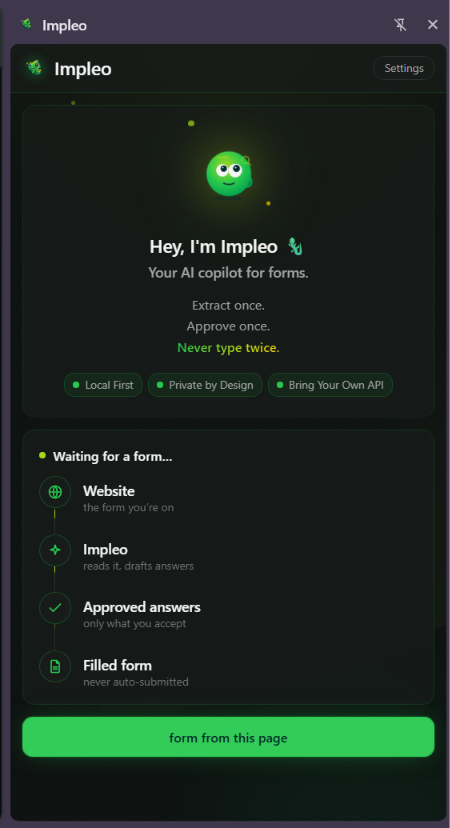
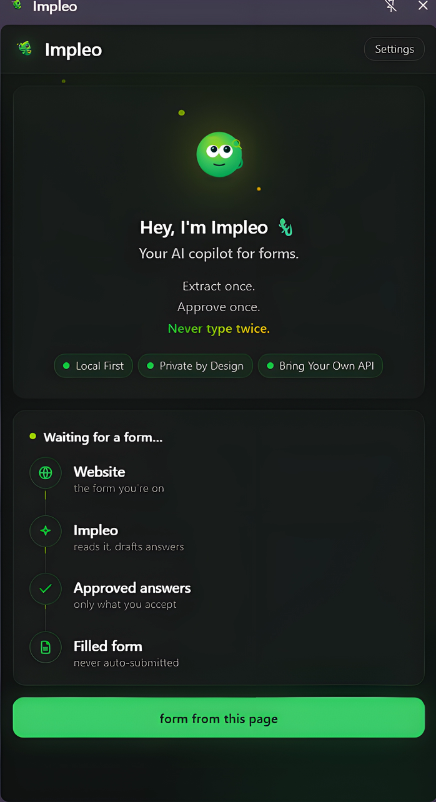
ServerLess

diff --git a/extension/src/sidepanel/components/LearnedAnswersManager.jsx b/extension/src/sidepanel/components/LearnedAnswersManager.jsx
@@ -1,5 +1,6 @@
 import { useEffect, useState } from 'react';
 import { getLearnedAnswers, deleteLearnedAnswer } from '../lib/learnedAnswers.js';
+import Collapsible from './extension-ui/Collapsible/Collapsible.jsx';
 
 // View / delete the answers Impleo has learned from confirmed reviews — the
 // questions that have no canonical identity key ("How many hackathons have you
@@ -46,61 +47,65 @@ export default function LearnedAnswersManager() {
 
   return (
     <div className="min-w-0 space-y-2">
-      <p className="text-caption text-ink-muted">
-        Learned answers — questions Impleo now answers from memory instead of asking the AI.
-      </p>
+      <Collapsible storageKey="impleo.ui.learnedAnswersOpen" title="Learned answers" count={items.length} defaultOpen={items.length <= 10}>
+        <div className="min-w-0 space-y-2">
+          <p className="text-caption text-ink-muted">
+            Questions Impleo now answers from memory instead of asking the AI.
+          </p>
 
-      {error && (
-        <div className="min-w-0 break-words rounded-card border border-red-900/50 bg-red-950/30 p-2 text-caption text-red-300">
-          {error}
+          {error && (
+            <div className="min-w-0 break-words rounded-card border border-red-900/50 bg-red-950/30 p-2 text-caption text-red-300">
+              {error}
+            </div>
+          )}
+
+          {items.length === 0 ? (
+            <p className="text-caption text-ink-muted">
+              Nothing learned yet. Accept or edit a short answer during a review and it shows up here.
+            </p>
+          ) : (
+            <ul className="min-w-0 max-h-80 space-y-1.5 overflow-y-auto pr-0.5">
+              {items.map((item) => (
+                <li
+                  key={item.questionNorm}
+                  className="min-w-0 rounded-input border border-surface-border bg-surface-bg p-2"
+                >
+                  <div className="flex min-w-0 items-start justify-between gap-2">
+                    <div className="min-w-0">
+                      <span className="min-w-0 break-words text-caption font-medium text-ink-primary">
+                        {item.canonicalLabel || item.questionText}
+                      </span>
+                      {item.canonicalLabel && (
+                        <p className="min-w-0 break-words text-caption text-ink-muted">
+                          from field: {item.questionText}
+                        </p>
+                      )}
+                    </div>
+                    {/* type="button" is required: this renders inside Onboarding's
+                        <form onSubmit={handleSave}>, where an untyped button defaults to
+                        type="submit" and would save the profile + bounce to the homepage. */}
+                    <button type="button" className={secondaryBtn} onClick={() => remove(item.questionNorm)}>
+                      Forget
+                    </button>
+                  </div>
+                  <p className="mt-0.5 min-w-0 break-words text-body text-ink-secondary">{item.answer}</p>
+                  {/* Provenance matters here in a way it doesn't for identity memory: an
+                      answer you typed and one you rubber-stamped from the AI are both
+                      reused at HIGH confidence, and only this line distinguishes them. */}
+                  <p className="text-caption text-ink-muted">
+                    {item.source === 'user_edit'
+                      ? 'You typed this'
+                      : item.source === 'import'
+                        ? 'From a backup file'
+                        : 'You accepted the suggested answer'}
+                    {item.canonicalLabel ? ' · value kept in remembered identity' : ''}
+                  </p>
+                </li>
+              ))}
+            </ul>
+          )}
         </div>
-      )}
-
-      {items.length === 0 ? (
-        <p className="text-caption text-ink-muted">
-          Nothing learned yet. Accept or edit a short answer during a review and it shows up here.
-        </p>
-      ) : (
-        <ul className="min-w-0 space-y-1.5">
-          {items.map((item) => (
-            <li
-              key={item.questionNorm}
-              className="min-w-0 rounded-input border border-surface-border bg-surface-bg p-2"
-            >
-              <div className="flex min-w-0 items-start justify-between gap-2">
-                <div className="min-w-0">
-                  <span className="min-w-0 break-words text-caption font-medium text-ink-primary">
-                    {item.canonicalLabel || item.questionText}
-                  </span>
-                  {item.canonicalLabel && (
-                    <p className="min-w-0 break-words text-caption text-ink-muted">
-                      from field: {item.questionText}
-                    </p>
-                  )}
-                </div>
-                {/* type="button" is required: this renders inside Onboarding's
-                    <form onSubmit={handleSave}>, where an untyped button defaults to
-                    type="submit" and would save the profile + bounce to the homepage. */}
-                <button type="button" className={secondaryBtn} onClick={() => remove(item.questionNorm)}>
-                  Forget
-                </button>
-              </div>
-              <p className="mt-0.5 min-w-0 break-words text-body text-ink-secondary">{item.answer}</p>
-              {/* Provenance matters here in a way it doesn't for identity memory: an
-                  answer you typed and one you rubber-stamped from the AI are both
-                  reused at HIGH confidence, and only this line distinguishes them. */}
-              <p className="text-caption text-ink-muted">
-                {item.source === 'user_edit'
-                  ? 'You typed this'
-                  : item.source === 'import'
-                    ? 'From a backup file'
-                    : 'You accepted the suggested answer'}
-                {item.canonicalLabel ? ' · value kept in remembered identity' : ''}
-              </p>
-            </li>
-          ))}
-        </ul>
-      )}
+      </Collapsible>
     </div>
   );
 }

diff --git a/extension/src/sidepanel/components/extension-ui/Collapsible/Collapsible.jsx b/extension/src/sidepanel/components/extension-ui/Collapsible/Collapsible.jsx
@@ -1,0 +1,76 @@
+import { useState } from 'react';
+
+// Generic disclosure panel used to keep growing lists (learned answers,
+// remembered identity, ...) from taking over the settings screen. Renders
+// its children into a CSS grid-rows track so the expand/collapse transition
+// animates height without ever measuring scrollHeight in JS, and picks up
+// the app-wide prefers-reduced-motion kill switch (index.css) for free since
+// it's a plain CSS transition.
+//
+// Open/closed state is persisted to localStorage (not chrome.storage.local)
+// keyed by `storageKey` -- this is a UI preference, not app data, so it
+// deliberately stays out of the domain storage modules those own.
+function ChevronIcon({ className }) {
+  return (
+    <svg className={className} viewBox="0 0 24 24" fill="none" stroke="currentColor" strokeWidth="2" strokeLinecap="round" strokeLinejoin="round" aria-hidden="true">
+      <path d="M6 9l6 6 6-6" />
+    </svg>
+  );
+}
+
+function readInitialOpen(storageKey, defaultOpen) {
+  try {
+    const stored = window.localStorage.getItem(storageKey);
+    return stored === null ? defaultOpen : stored === 'true';
+  } catch {
+    return defaultOpen;
+  }
+}
+
+export default function Collapsible({ storageKey, title, count, defaultOpen = true, children }) {
+  const [open, setOpen] = useState(() => readInitialOpen(storageKey, defaultOpen));
+
+  function toggle() {
+    setOpen((prev) => {
+      const next = !prev;
+      try {
+        window.localStorage.setItem(storageKey, String(next));
+      } catch {
+        // localStorage unavailable -- collapse state just won't persist.
+      }
+      return next;
+    });
+  }
+
+  return (
+    <div className="min-w-0">
+      <button
+        type="button"
+        onClick={toggle}
+        aria-expanded={open}
+        className="flex w-full min-w-0 items-center justify-between gap-2 py-1 text-left"
+      >
+        <span className="flex min-w-0 items-center gap-1.5">
+          <span className="truncate text-card text-ink-primary">{title}</span>
+          <span className="shrink-0 rounded-full border border-surface-border bg-surface-card-hover px-1.5 py-0.5 text-caption text-ink-secondary">
+            {count}
+          </span>
+        </span>
+        <ChevronIcon
+          className={`h-3.5 w-3.5 shrink-0 text-ink-secondary transition-transform duration-250 ease-premium ${
+            open ? 'rotate-180' : ''
+          }`}
+        />
+      </button>
+      <div
+        className={`grid transition-[grid-template-rows] duration-250 ease-premium ${
+          open ? 'grid-rows-[1fr]' : 'grid-rows-[0fr]'
+        }`}
+      >
+        <div className="overflow-hidden" aria-hidden={!open}>
+          <div className="min-w-0 pt-2">{children}</div>
+        </div>
+      </div>
+    </div>
+  );
+}

diff --git a/extension/src/sidepanel/components/Onboarding.jsx b/extension/src/sidepanel/components/Onboarding.jsx
@@ -1,4 +1,4 @@
-import { useState } from 'react';
+import { useEffect, useState } from 'react';
 import { exportProfile } from '../lib/importExport.js';
 import { testApiKey, saveSettings } from '../lib/settings.js';
 import { saveProfile } from '../lib/profile.js';
@@ -95,6 +95,16 @@ const KEY_HINTS = {
 
 export default function Onboarding({ initialProfile, initialSettings, onSaved }) {
   const [form, setForm] = useState(() => profileToFormState(initialProfile));
+
+  // initialProfile is a fresh object every time App.load() re-reads storage
+  // (e.g. right after an import) -- the lazy useState initializer above only
+  // runs once at mount, so without this the form silently keeps showing
+  // whatever was there when Onboarding first mounted. This re-derives form
+  // state whenever the prop actually changes, without touching storage or
+  // the save path.
+  useEffect(() => {
+    setForm(profileToFormState(initialProfile));
+  }, [initialProfile]);
 
   const providers = initialSettings?.providers ?? [];
   const savedKeyProviders = new Set(providers.filter((p) => p.hasKey).map((p) => p.id));